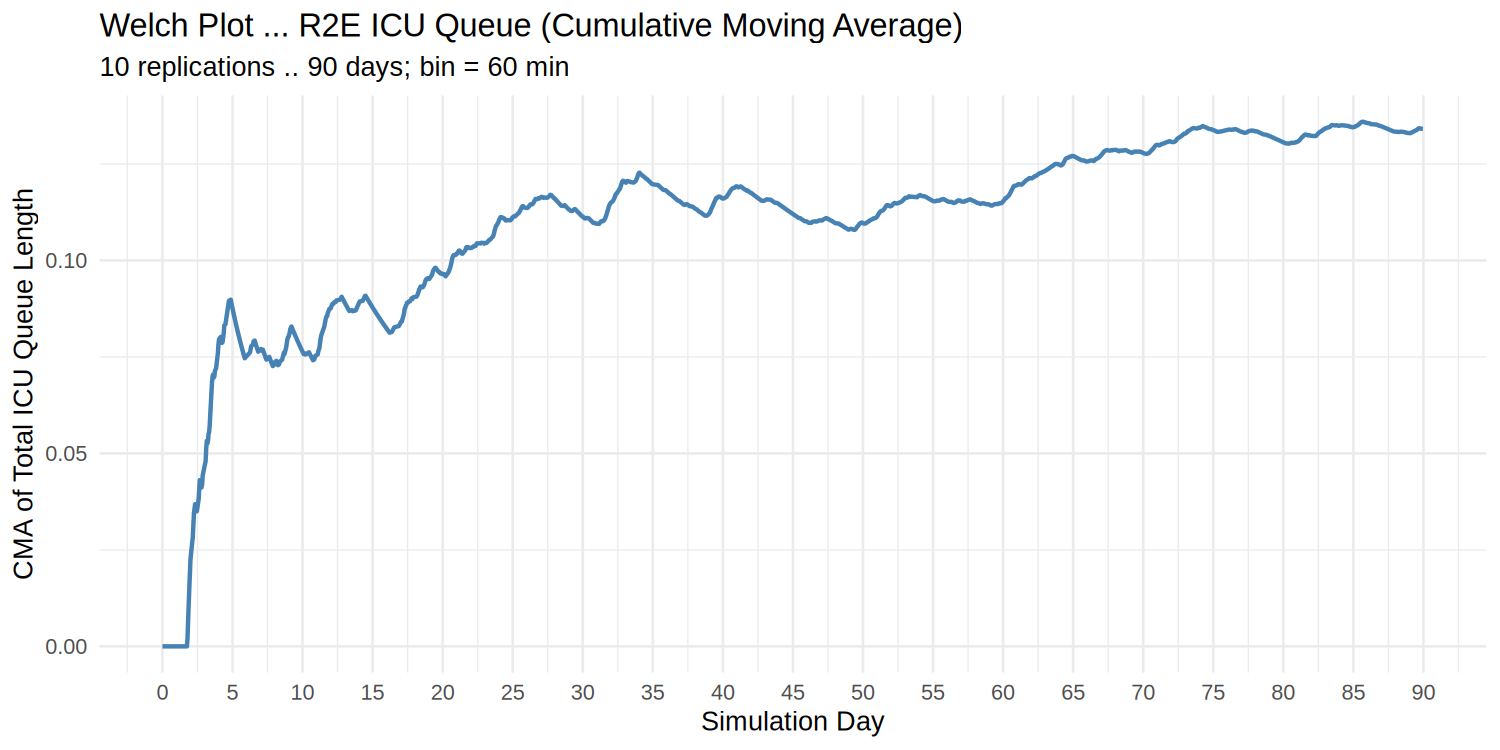
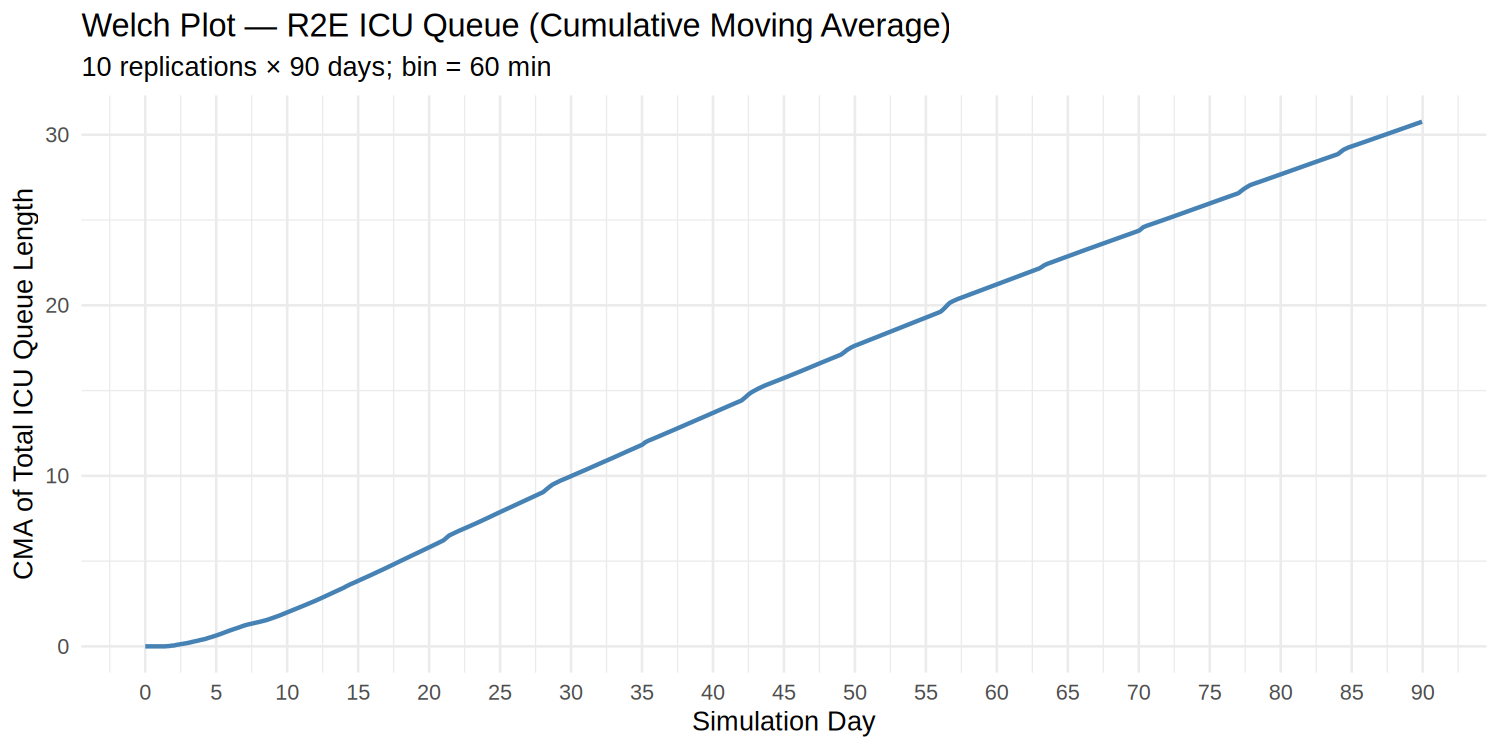
docs(issue-113): re-run the Welch warm-up analysis against the current model
The plot and every figure in this section dated from 2026-07-09, 35
simulation-code commits ago, and predated both Issue #18's change to the
RNG draw order and Issue #23's strategic AME work. Issue #23 altered the
exact KPI this analysis tracks, since AME-awaiting casualties now hold
R2E ICU beds.

The re-run (10 replications, 90 days) changes the finding's shape, not
its conclusion. The CMA no longer shows episodic peaks near Days 13 and
38 with a trough near Day 25. It now rises monotonically and close to
linearly from 0 to 30.6 across the horizon, with not one decrease in
2,159 hourly increments, while the instantaneous mean queue reaches 56.9
casualties against a pool of four R2E ICU beds. That is unbounded
accumulation driven by an AME sortie schedule clearing the critical pool
more slowly than casualties enter it, so the terminating classification
is reinforced rather than overturned: there is no steady state to
converge to.

Regenerated in an unpinned sandbox, so the section now carries the same
provenance caveat as the Issue #18 and #23 baseline refreshes.

diff --git a/README.md b/README.md
@@ -1063,13 +1063,13 @@ Rscript scripts/run_warmup.R
 Rscript scripts/run_warmup.R --reps 5 --days 60
 ```
 
-The resulting Welch plot shows the cross-replication CMA of the R2E ICU queue across 90 days.
+The resulting Welch plot shows the cross-replication CMA of the R2E ICU queue across 90 days. The figures below were regenerated against the current codebase in an unpinned R sandbox rather than the project's pinned Dev Container, so they carry the same provenance caveat as the Issue #18 and Issue #23 baseline refreshes recorded in `CLAUDE.md`.
 
 ![Welch plot of the R2E ICU queue CMA across 90 days](../images/welch_plot_icu_queue.png)
 
-Rather than converging to a stable plateau, the CMA displays episodic, non-stationary behaviour: a rise to a local peak near Day 13 (the first wave of R2E ICU admissions propagating from early combat), a decline to a trough near Day 25, then a second rise to a higher peak near Day 38 as cumulative casualty load continues to build. No convergence to a steady state is observed within the 90-day horizon. This pattern is consistent with the arrival process generating episodic surges; the ICU queue is driven by campaign dynamics rather than a stationary queue process, and the CMA continues to shift across the full run length.
+Rather than converging to a stable plateau, the CMA rises monotonically and close to linearly across the whole horizon, from 0 at Day 0 to 30.6 at Day 89, and is still climbing when the run ends. Not one of the 2,159 hourly increments is a decrease. The instantaneous cross-replication mean queue behaves the same way, reaching 56.9 casualties waiting on a pool of four R2E ICU beds by Day 89. This is unbounded accumulation rather than a transient: casualties awaiting strategic aeromedical evacuation hold an ICU bed for the duration of their wait, and the sortie schedule clears the critical pool more slowly than casualties enter it, so the backlog grows for as long as the campaign runs (see [Role 4 (National Support Base) Demand Modelling](#role-4-national-support-base-demand-modelling) and Limitations). No steady state exists to converge to.
 
-This non-convergent CMA confirms that the battlefield casualty handling simulation is a **terminating simulation** [[41]](#References). The campaign has a defined finite horizon; the ICU queue trajectory represents the operational reality of that campaign, including the initial build-up of casualties from Day 1. The empty-start initial condition, no casualties in care on Day 0, is the correct operational initial condition for a force beginning operations rather than a modelling artefact to be excluded. [[42]](#References) establishes that warm-up detection methods, including graphical approaches, presuppose the existence of a steady state; they are not applicable to terminating simulations. Uncertainty on this classification is low, since it follows from the finite campaign model structure rather than from a parameter subject to calibration. Were it wrong, and early data discarded as a transient, the reported KPIs would describe mid-campaign equilibrium rather than the campaign-wide casualty burden from Day 1, understating both total system demand and the severity of early-period queues for a planner who must account for casualty load from the onset of operations.
+This divergent CMA confirms that the battlefield casualty handling simulation is a **terminating simulation** [[41]](#References). The campaign has a defined finite horizon; the ICU queue trajectory represents the operational reality of that campaign, including the initial build-up of casualties from Day 1. The empty-start initial condition, no casualties in care on Day 0, is the correct operational initial condition for a force beginning operations rather than a modelling artefact to be excluded. [[42]](#References) establishes that warm-up detection methods, including graphical approaches, presuppose the existence of a steady state; they are not applicable to terminating simulations. Uncertainty on this classification is low, since it follows from the finite campaign model structure rather than from a parameter subject to calibration. Were it wrong, and early data discarded as a transient, the reported KPIs would describe mid-campaign equilibrium rather than the campaign-wide casualty burden from Day 1, understating both total system demand and the severity of early-period queues for a planner who must account for casualty load from the onset of operations.
 
 Warm-up exclusion is therefore **not applied** as the default. The `WARM_UP_DAYS` constant in `R/warmup.R` is set to `0L`. All KPI summaries and analysis outputs use the full observation window.
 
